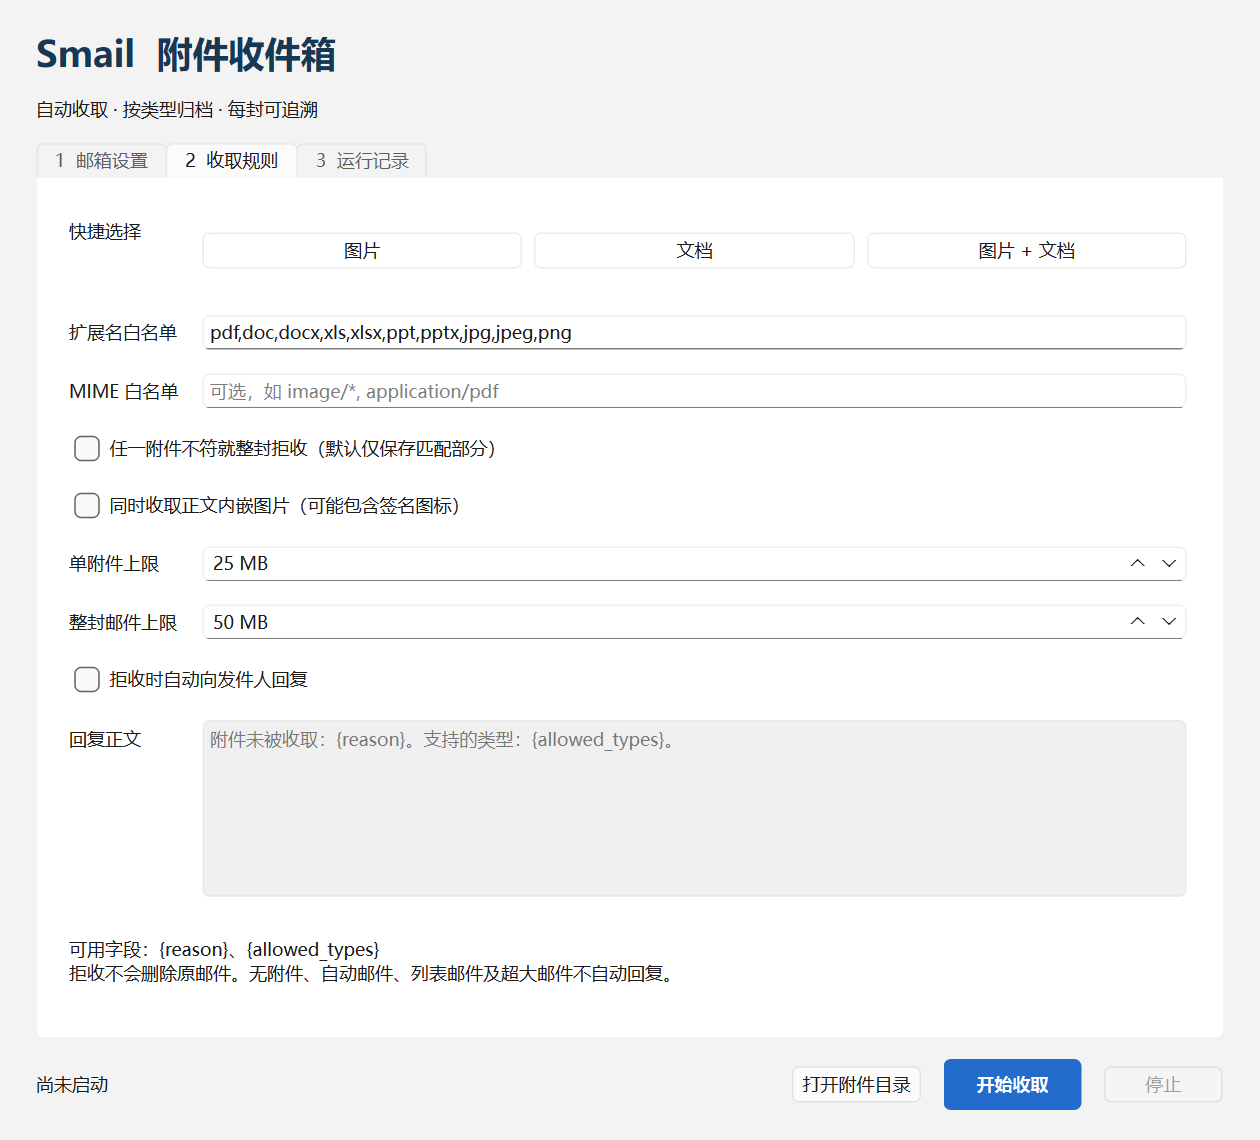
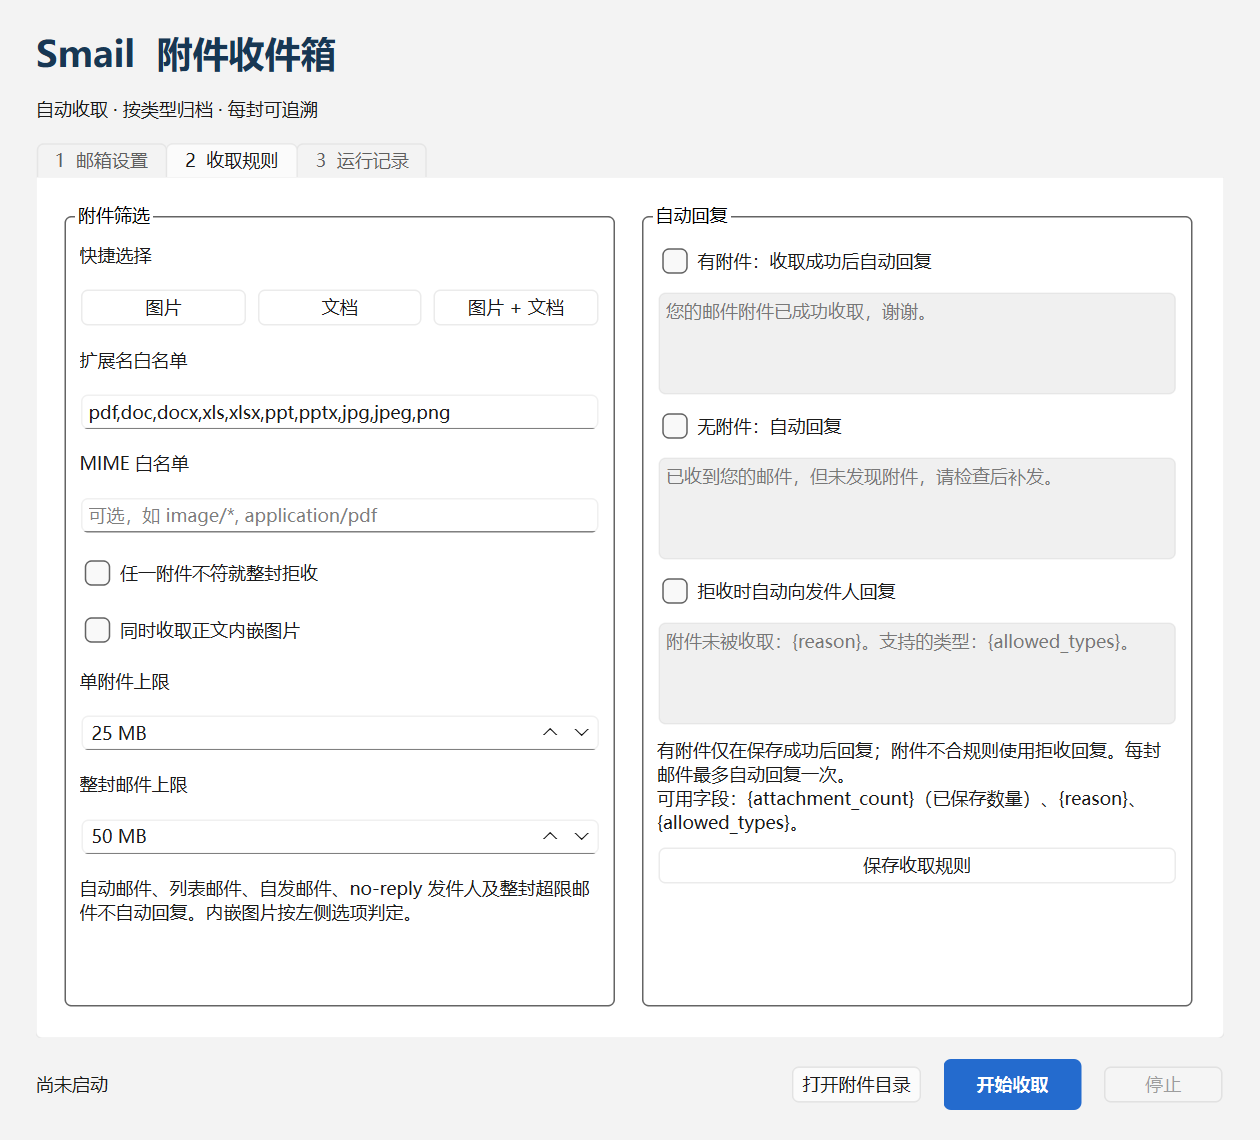
feat(ui): configure attachment-specific replies in collection rules

diff --git a/src/app/MainWindow.cpp b/src/app/MainWindow.cpp
@@ -12,6 +12,7 @@
 #include <QFile>
 #include <QFileDialog>
 #include <QFormLayout>
+#include <QGroupBox>
 #include <QHBoxLayout>
 #include <QLabel>
 #include <QLineEdit>
@@ -76,7 +77,13 @@ MainWindow::MainWindow(QString dir) : dataDir(std::move(dir)) {
     form->addRow("附件保存位置",folderRow); form->addRow("检查间隔",interval); form->addRow(existing);
     auto *hint = new QLabel("QQ 邮箱：请在网页版设置中开启 IMAP/SMTP 并生成授权码。\n默认仅收取首次成功连接之后的新邮件；电脑需保持运行和联网。");
     hint->setWordWrap(true); form->addRow(hint); tabs->addTab(account,"1  邮箱设置");
-    auto *rules = new QWidget; auto *rf = new QFormLayout(rules); rf->setContentsMargins(20,20,20,20); rf->setSpacing(14);
+    auto *rules = new QWidget; auto *rulesLayout = new QHBoxLayout(rules);
+    rulesLayout->setContentsMargins(16,16,16,16); rulesLayout->setSpacing(16);
+    auto *filters = new QGroupBox("附件筛选"); auto *rf = new QFormLayout(filters); rf->setSpacing(14);
+    rf->setRowWrapPolicy(QFormLayout::WrapAllRows);
+    auto *responses = new QGroupBox("自动回复"); auto *responseLayout = new QVBoxLayout(responses);
+    responseLayout->setSpacing(8);
+    rulesLayout->addWidget(filters,1); rulesLayout->addWidget(responses,1);
     extensions = new QLineEdit; extensions->setPlaceholderText("pdf, docx, jpg（留空允许全部扩展名）");
     mimeTypes = new QLineEdit; mimeTypes->setPlaceholderText("可选，如 image/*, application/pdf");
     auto *presets = new QWidget; auto *pl = new QHBoxLayout(presets); pl->setContentsMargins(0,0,0,0);
@@ -88,17 +95,30 @@ MainWindow::MainWindow(QString dir) : dataDir(std::move(dir)) {
             extensions->setText(QString::fromUtf8(label) == "图片" ? images : QString::fromUtf8(label) == "文档" ? docs : images+","+docs);
         });
     }
-    strict = new QCheckBox("任一附件不符就整封拒收（默认仅保存匹配部分）");
-    inlineImages = new QCheckBox("同时收取正文内嵌图片（可能包含签名图标）");
+    strict = new QCheckBox("任一附件不符就整封拒收");
+    strict->setToolTip("未勾选时，仅保存匹配的附件。");
+    inlineImages = new QCheckBox("同时收取正文内嵌图片");
+    inlineImages->setToolTip("可能包含签名图标；未勾选时，只有内嵌图片的邮件视为无附件。");
     attachmentSize = spin(1,200); attachmentSize->setSuffix(" MB");
     messageSize = spin(1,200); messageSize->setSuffix(" MB");
     reply = new QCheckBox("拒收时自动向发件人回复");
-    rejection = new QPlainTextEdit; rejection->setMaximumHeight(120);
+    rejection = new QPlainTextEdit; rejection->setFixedHeight(70);
+    withAttachmentReply = new QCheckBox("有附件：收取成功后自动回复");
+    withoutAttachmentReply = new QCheckBox("无附件：自动回复");
+    withAttachmentMessage = new QPlainTextEdit; withAttachmentMessage->setFixedHeight(70);
+    withoutAttachmentMessage = new QPlainTextEdit; withoutAttachmentMessage->setFixedHeight(70);
     rf->addRow("快捷选择",presets); rf->addRow("扩展名白名单",extensions); rf->addRow("MIME 白名单",mimeTypes);
     rf->addRow(strict); rf->addRow(inlineImages); rf->addRow("单附件上限",attachmentSize); rf->addRow("整封邮件上限",messageSize);
-    rf->addRow(reply); rf->addRow("回复正文",rejection);
-    auto *ruleHint = new QLabel("可用字段：{reason}、{allowed_types}\n拒收不会删除原邮件。无附件、自动邮件、列表邮件及超大邮件不自动回复。");
-    ruleHint->setWordWrap(true); rf->addRow(ruleHint); tabs->addTab(rules,"2  收取规则");
+    responseLayout->addWidget(withAttachmentReply); responseLayout->addWidget(withAttachmentMessage);
+    responseLayout->addWidget(withoutAttachmentReply); responseLayout->addWidget(withoutAttachmentMessage);
+    responseLayout->addWidget(reply); responseLayout->addWidget(rejection);
+    auto *ruleHint = new QLabel("有附件仅在保存成功后回复；附件不合规则使用拒收回复。每封邮件最多自动回复一次。\n可用字段：{attachment_count}（已保存数量）、{reason}、{allowed_types}。");
+    ruleHint->setWordWrap(true); responseLayout->addWidget(ruleHint);
+    auto *safetyHint = new QLabel("自动邮件、列表邮件、自发邮件、no-reply 发件人及整封超限邮件不自动回复。内嵌图片按左侧选项判定。");
+    safetyHint->setWordWrap(true); rf->addRow(safetyHint);
+    auto *saveRules = new QPushButton("保存收取规则"); responseLayout->addWidget(saveRules);
+    responseLayout->addStretch(); tabs->addTab(rules,"2  收取规则");
+    connect(saveRules,&QPushButton::clicked,saveSecret,&QPushButton::click);
     auto *records = new QWidget; auto *rl = new QVBoxLayout(records);
     auto *refresh = new QPushButton("刷新处理历史"); rl->addWidget(refresh);
     history = new QPlainTextEdit; history->setReadOnly(true); rl->addWidget(history,2);
@@ -129,6 +149,8 @@ MainWindow::MainWindow(QString dir) : dataDir(std::move(dir)) {
     connect(start,&QPushButton::clicked,this,&MainWindow::begin);
     connect(stop,&QPushButton::clicked,this,[this] { if (collector) { collector->requestInterruption(); stop->setEnabled(false); status->setText("正在停止…"); } });
     connect(reply,&QCheckBox::toggled,rejection,&QWidget::setEnabled);
+    connect(withAttachmentReply,&QCheckBox::toggled,withAttachmentMessage,&QWidget::setEnabled);
+    connect(withoutAttachmentReply,&QCheckBox::toggled,withoutAttachmentMessage,&QWidget::setEnabled);
     try { fill(Config::load(dataDir+"/settings.json")); }
     catch (const std::exception &e) { fill(Config{}); appendLog(QString::fromUtf8(e.what())); }
     loadSecret();
@@ -169,6 +191,12 @@ void MainWindow::fill(const Config &c) {
     existing->setChecked(c.includeExisting); reply->setChecked(c.reply); rejection->setPlainText(c.rejection);
     rejection->setEnabled(c.reply); attachmentSize->setValue(c.maxAttachmentMb); messageSize->setValue(c.maxMessageMb);
     rememberSecret->setChecked(CredentialStore::supported() && c.rememberSecret);
+    withAttachmentReply->setChecked(c.withAttachmentReply);
+    withoutAttachmentReply->setChecked(c.withoutAttachmentReply);
+    withAttachmentMessage->setPlainText(c.withAttachmentMessage);
+    withoutAttachmentMessage->setPlainText(c.withoutAttachmentMessage);
+    withAttachmentMessage->setEnabled(c.withAttachmentReply);
+    withoutAttachmentMessage->setEnabled(c.withoutAttachmentReply);
 }
 Config MainWindow::readConfig() const {
     Config c; c.email = email->text().trimmed(); c.secret = secret->text();
@@ -178,6 +206,10 @@ Config MainWindow::readConfig() const {
     c.strict = strict->isChecked(); c.inlineImages = inlineImages->isChecked(); c.includeExisting = existing->isChecked();
     c.reply = reply->isChecked(); c.rejection = rejection->toPlainText();
     c.rememberSecret = rememberSecret->isChecked();
+    c.withAttachmentReply = withAttachmentReply->isChecked();
+    c.withoutAttachmentReply = withoutAttachmentReply->isChecked();
+    c.withAttachmentMessage = withAttachmentMessage->toPlainText();
+    c.withoutAttachmentMessage = withoutAttachmentMessage->toPlainText();
     c.maxAttachmentMb = attachmentSize->value(); c.maxMessageMb = messageSize->value(); return c;
 }
 void MainWindow::begin() {

diff --git a/include/smail/MainWindow.h b/include/smail/MainWindow.h
@@ -24,8 +24,10 @@ private:
     QLineEdit *email, *secret, *output, *imap, *smtp, *extensions, *mimeTypes;
     QSpinBox *imapPort, *smtpPort, *interval, *attachmentSize, *messageSize;
     QCheckBox *strict, *inlineImages, *existing, *reply, *rememberSecret;
+    QCheckBox *withAttachmentReply, *withoutAttachmentReply;
     QComboBox *provider;
     QPlainTextEdit *rejection, *log, *history;
+    QPlainTextEdit *withAttachmentMessage, *withoutAttachmentMessage;
     QPushButton *start, *stop;
     QLabel *status;
     QTabWidget *tabs;

diff --git a/src/app/main.cpp b/src/app/main.cpp
@@ -13,7 +13,7 @@ int main(int argc, char **argv) {
     QApplication app(argc,argv);
     QApplication::setOrganizationName("Smail");
     QApplication::setApplicationName("Smail");
-    QApplication::setApplicationVersion("0.1.1");
+    QApplication::setApplicationVersion("0.1.2");
     QCommandLineParser parser;
     parser.addHelpOption(); parser.addVersionOption();
     parser.addOption({"data-dir", "Override local configuration/state directory.", "directory"});
